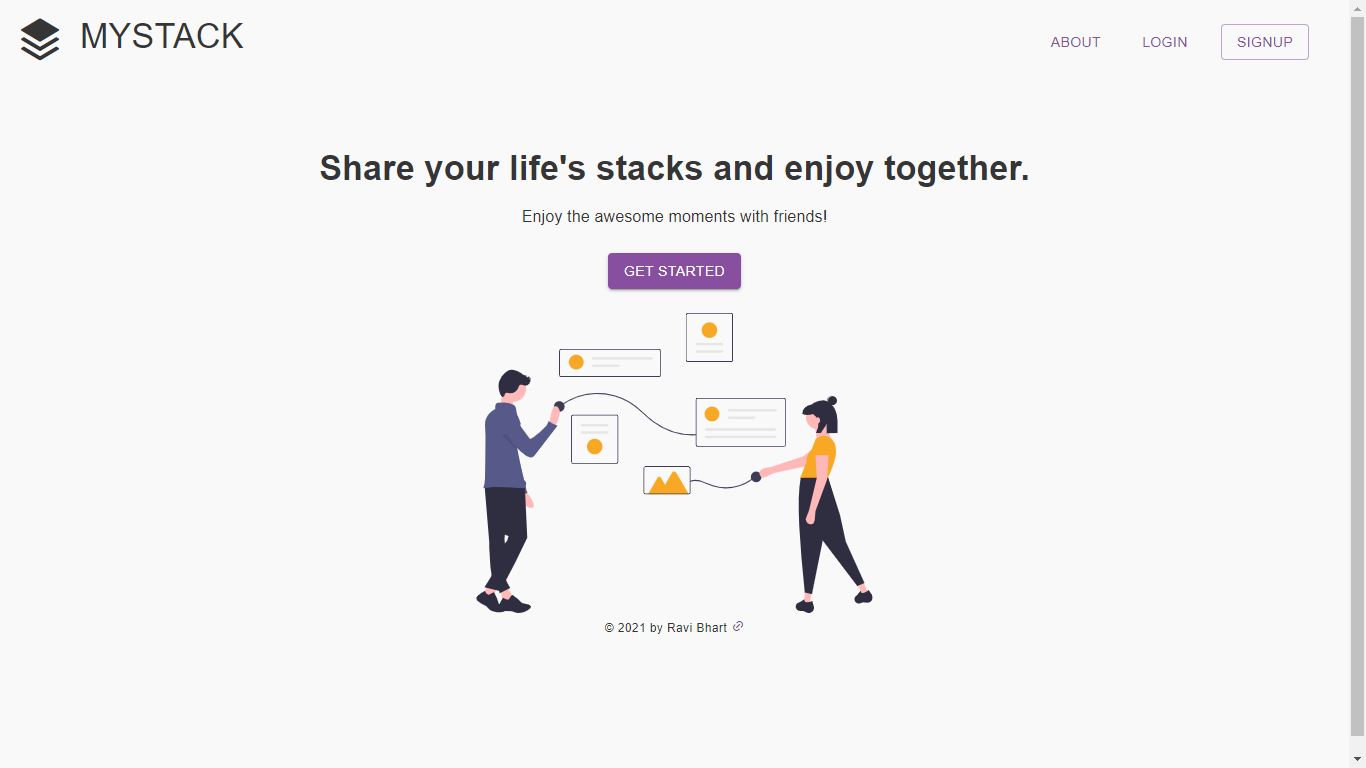
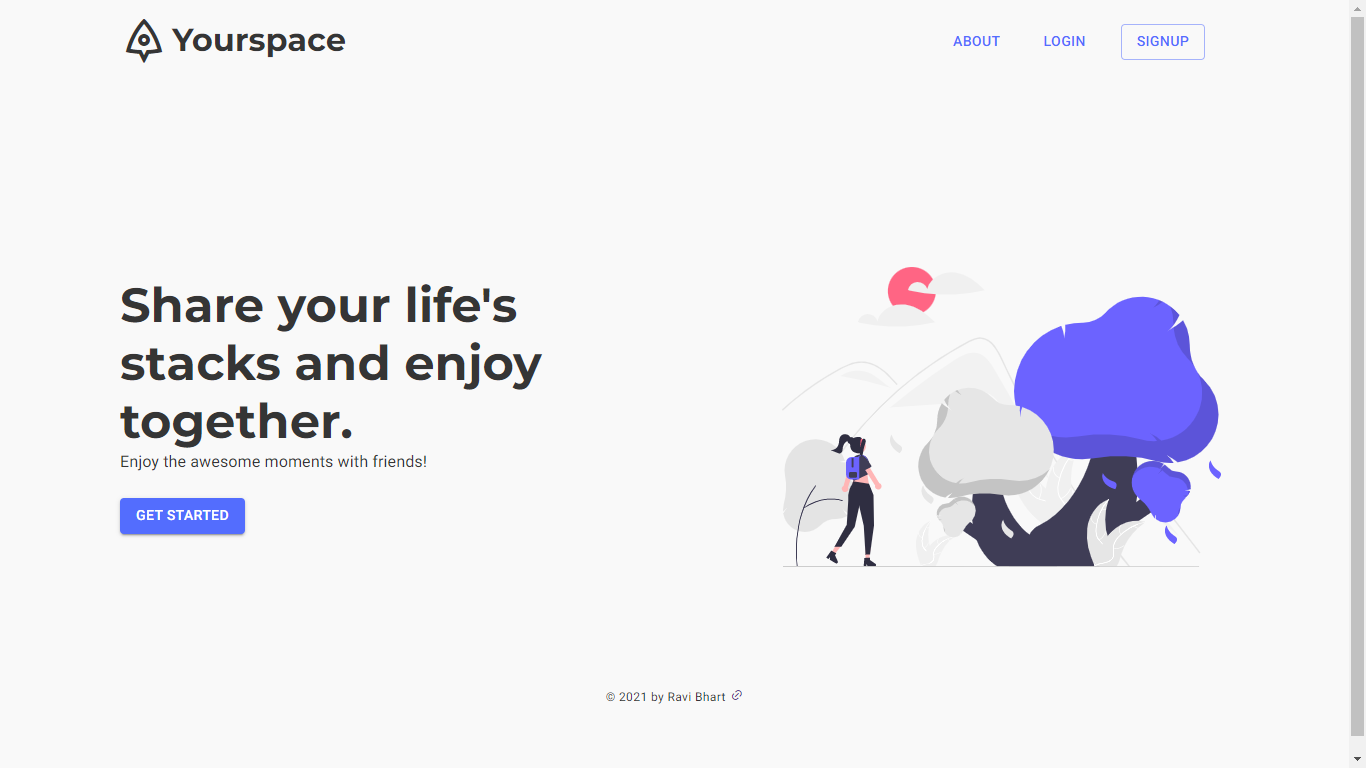
Updated Readme 🏖

diff --git a/README.md b/README.md
@@ -1,13 +1,15 @@
-## MYSTACK #### initially yourspace
+# Yourspace
 
-A social media app buid with react and node.js
+## A minimalist social media application
 
-### Live Preview
+## **_Live Preview_**
 
-https://yourspace.netlify.app/
+## https://yourspace.vercel.app/
 
-![Preview](/public/assets/Screenshot.png)
+![Preview](./src/assets/Screenshot.png)
 
-#### server repo
+`Build with React.js and MaterialUI`
 
-https://github.com/ravics1721/ys-server
+## **_Server repo_**
+
+## https://github.com/ravics1721/ys-server
